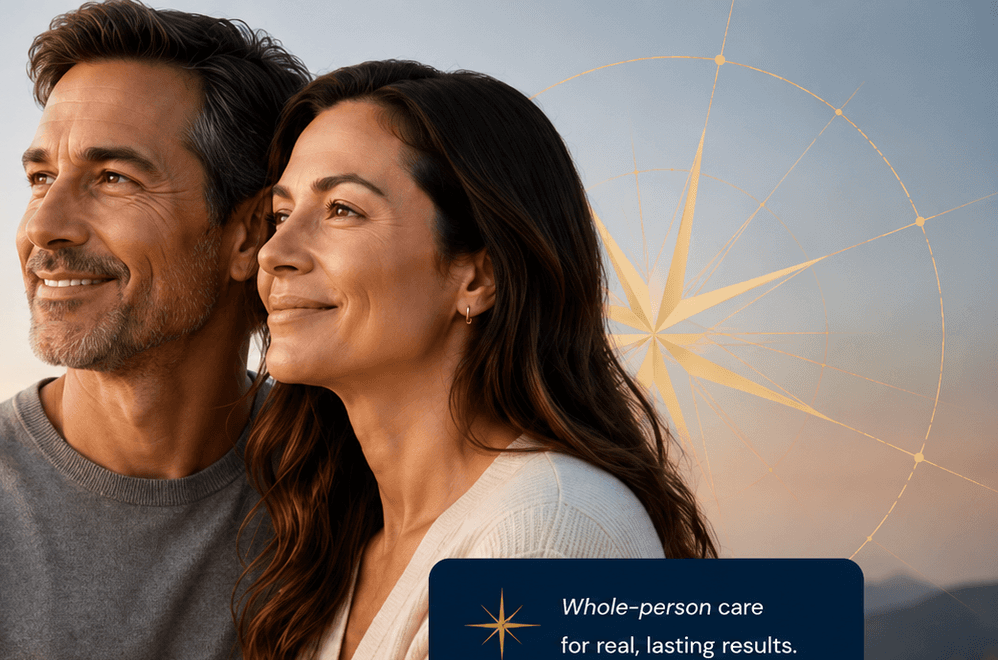
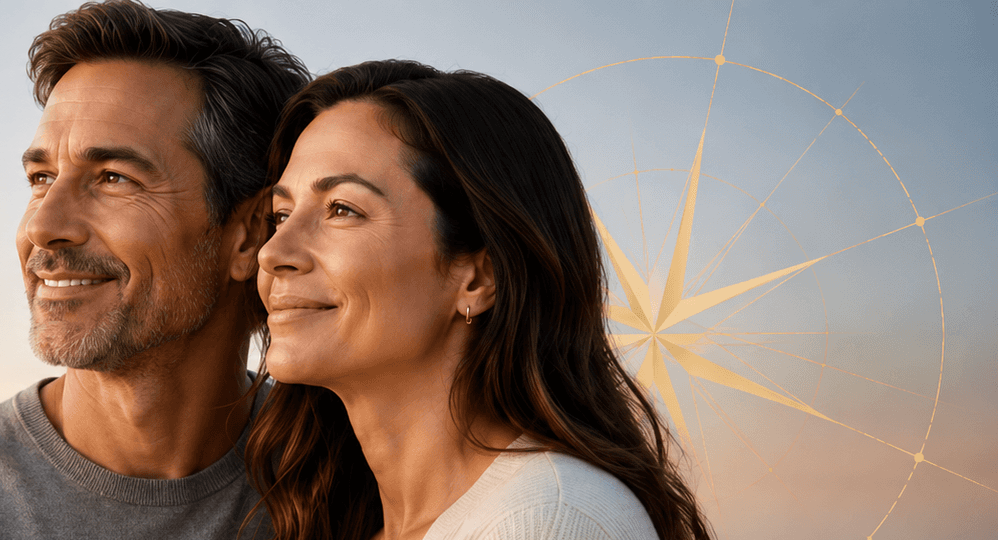
Fix mobile nav CTA visibility and responsive hero tagline.
Show white Get Started text in the drawer menu and replace the cropped image tagline with a fluid HTML overlay that scales on all phone sizes.

diff --git a/css/styles.css b/css/styles.css
@@ -221,6 +221,7 @@ h2 { font-size: clamp(30px, 3vw, 40px); }
   align-items: center;
   justify-content: center;
   gap: 26px;
+  list-style: none;
 }
 
 .main-nav a {
@@ -390,10 +391,40 @@ body.nav-open .nav-overlay {
 
 .hero-mobile-visual img {
   width: 100%;
-  aspect-ratio: 998 / 660;
+  aspect-ratio: 998 / 540;
   object-fit: cover;
-  object-position: center 42%;
+  object-position: center 38%;
   display: block;
+}
+
+.hero-tagline {
+  position: absolute;
+  left: clamp(8px, 2.5vw, 14px);
+  right: clamp(8px, 2.5vw, 14px);
+  bottom: clamp(8px, 2.5vw, 14px);
+  background: var(--navy);
+  color: var(--white);
+  display: flex;
+  align-items: flex-start;
+  gap: clamp(8px, 2vw, 12px);
+  padding: clamp(10px, 2.8vw, 14px) clamp(12px, 3.2vw, 16px);
+  border-radius: 6px;
+  font-size: clamp(11px, 3.1vw, 13.5px);
+  font-weight: 500;
+  line-height: 1.4;
+}
+
+.hero-tagline svg {
+  width: clamp(18px, 5vw, 22px);
+  height: clamp(18px, 5vw, 22px);
+  color: var(--gold);
+  flex-shrink: 0;
+  margin-top: 1px;
+}
+
+.hero-tagline span {
+  flex: 1;
+  min-width: 0;
 }
 
 .hero-mobile .hero-badge {
@@ -868,6 +899,27 @@ body.nav-open .nav-overlay {
     display: block;
     padding: 16px 4px;
     font-size: 11px;
+  }
+
+  .main-nav a.btn {
+    color: var(--white);
+    background: var(--navy);
+    justify-content: center;
+    text-align: center;
+    padding: 14px 20px;
+    border: none;
+    border-radius: 999px;
+    font-size: 10.5px;
+    letter-spacing: 0.14em;
+  }
+
+  .main-nav a.btn:hover {
+    background: #123052;
+    color: var(--white);
+  }
+
+  .main-nav li.nav-cta-mobile {
+    border-bottom: none;
   }
 
   .nav-cta-mobile {

diff --git a/index.html b/index.html
@@ -105,9 +105,15 @@
                 decoding="async"
                 alt="Couple enjoying sunlit hills — physician-guided longevity and wellness care with North Star MD"
                 width="998"
-                height="660"
+                height="540"
                 fetchpriority="high"
               />
+              <aside class="hero-tagline" aria-label="Care promise">
+                <svg viewBox="0 0 24 24" fill="none" aria-hidden="true">
+                  <path d="M12 2L14 9L21 11L14 13L12 20L10 13L3 11L10 9L12 2Z" stroke="currentColor" stroke-width="1.1" stroke-linejoin="round"/>
+                </svg>
+                <span>Whole-person care for real, lasting results.</span>
+              </aside>
             </div>
             <div class="hero-btns">
               <a href="#get-started" class="btn btn-gold btn-pill btn-block">Start Your Journey</a>

diff --git a/css/mobile.css b/css/mobile.css
@@ -65,9 +65,20 @@
   }
 
   .hero-mobile-visual img {
-    aspect-ratio: 998 / 660;
-    object-position: center 42%;
-    max-height: min(58vw, 340px);
+    aspect-ratio: 998 / 540;
+    object-position: center 38%;
+    min-height: min(52vw, 280px);
+    max-height: none;
+  }
+
+  .hero-tagline {
+    font-size: clamp(10.5px, 2.9vw, 13px);
+    padding: clamp(9px, 2.6vw, 13px) clamp(10px, 3vw, 14px);
+  }
+
+  .main-nav a.btn {
+    color: var(--white) !important;
+    -webkit-text-fill-color: var(--white);
   }
 
   /* Touch targets */
